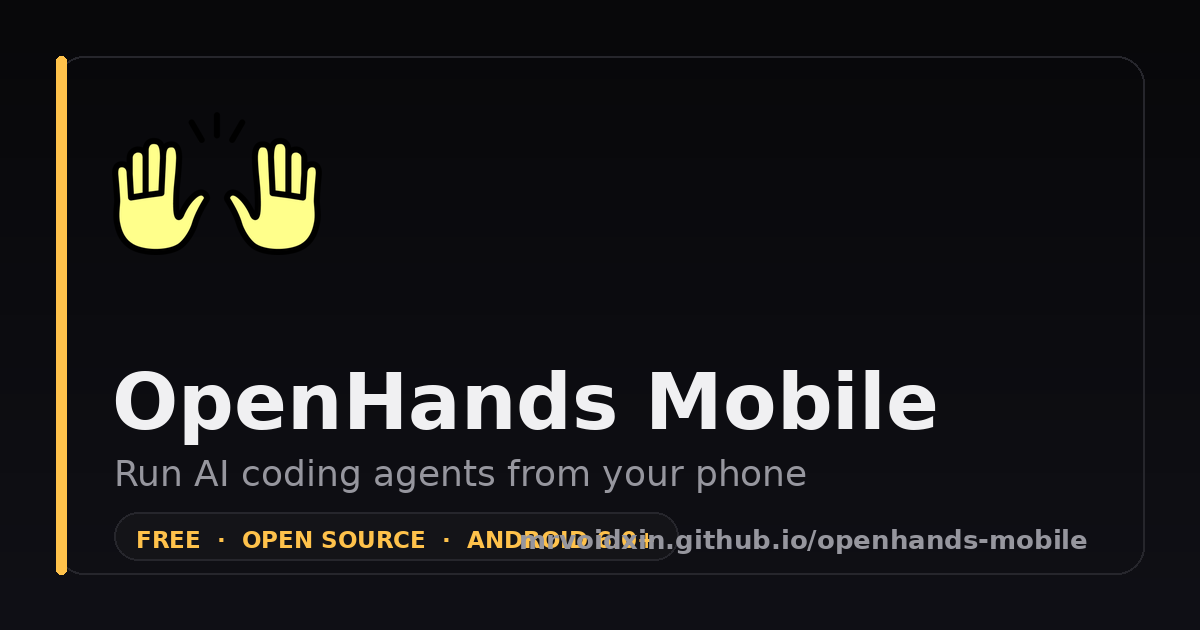
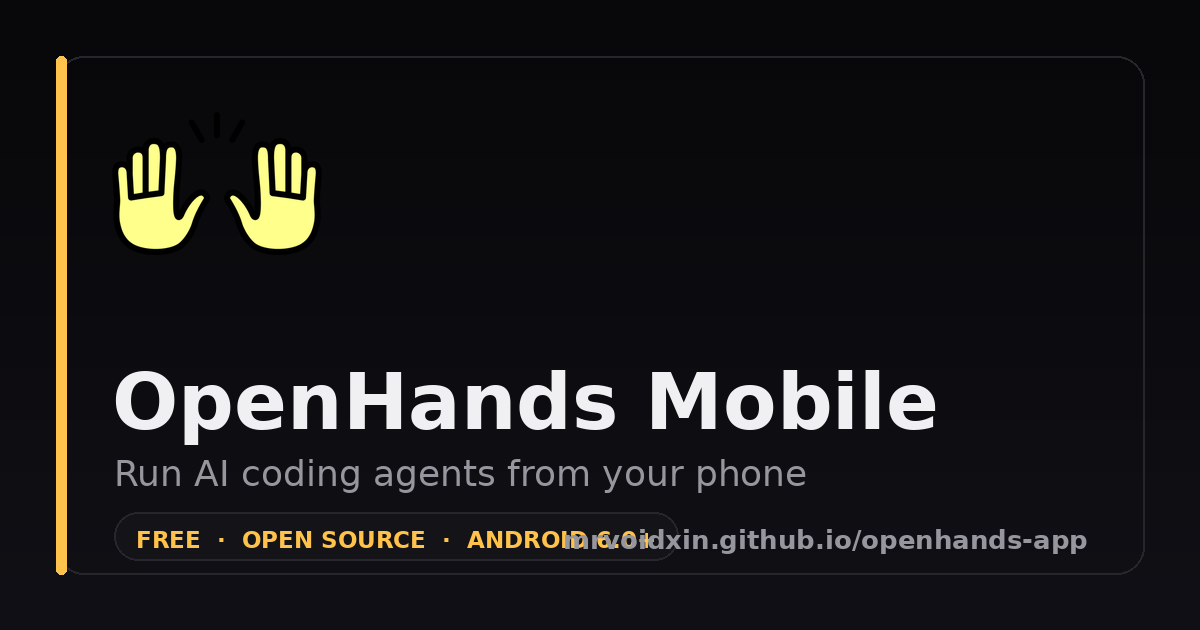
Rename the project to openhands-app
The repo is now mrvoidxin/openhands-app, so the Pages URL and every
download/source link move with it. Updated the landing page meta + JSON-LD
+ body links, the promo captions, README badges and clone steps, the OG
image (regenerated - the old one had the previous URL baked in), the
release-publish script and the Android build notes. GitHub keeps the old
path redirecting for a while, but the canonical URL is now:

  https://mrvoidxin.github.io/openhands-app/

Changed region(s): [[0.4317, 0.8444, 0.8942, 0.8746]]

diff --git a/docs/index.html b/docs/index.html
@@ -5,23 +5,23 @@
 <meta name="viewport" content="width=device-width, initial-scale=1, viewport-fit=cover">
 <title>OpenHands Mobile — Your AI coding agents, in your pocket.</title>
 <meta name="description" content="Run AI coding agents from your phone. OpenHands Agent Canvas as a sideloadable Android APK. Free, MIT licensed, no account, no telemetry.">
-<link rel="canonical" href="https://mrvoidxin.github.io/openhands-mobile/">
+<link rel="canonical" href="https://mrvoidxin.github.io/openhands-app/">
 <meta name="theme-color" content="#08080A">
 <meta name="color-scheme" content="dark">
 <meta name="author" content="Sameer (@mrvoidxin)">
 
 <meta property="og:type" content="website">
 <meta property="og:site_name" content="OpenHands Mobile">
-<meta property="og:url" content="https://mrvoidxin.github.io/openhands-mobile/">
+<meta property="og:url" content="https://mrvoidxin.github.io/openhands-app/">
 <meta property="og:title" content="OpenHands Mobile — Your AI coding agents, in your pocket.">
 <meta property="og:description" content="OpenHands Agent Canvas packaged as an Android app. Sideload the APK once and drive real coding agents from your phone.">
-<meta property="og:image" content="https://mrvoidxin.github.io/openhands-mobile/assets/og-image.png">
+<meta property="og:image" content="https://mrvoidxin.github.io/openhands-app/assets/og-image.png">
 <meta property="og:image:width" content="1200">
 <meta property="og:image:height" content="630">
 <meta name="twitter:card" content="summary_large_image">
 <meta name="twitter:title" content="OpenHands Mobile — Your AI coding agents, in your pocket.">
 <meta name="twitter:description" content="OpenHands Agent Canvas packaged as an Android app. Free, MIT licensed, no account, no telemetry.">
-<meta name="twitter:image" content="https://mrvoidxin.github.io/openhands-mobile/assets/og-image.png">
+<meta name="twitter:image" content="https://mrvoidxin.github.io/openhands-app/assets/og-image.png">
 
 <link rel="icon" type="image/png" href="assets/favicon.png">
 <link rel="apple-touch-icon" href="assets/favicon.png">
@@ -40,9 +40,9 @@
   "applicationCategory": "DeveloperApplication",
   "softwareVersion": "1.27.3",
   "fileSize": "6.0 MB",
-  "downloadUrl": "https://github.com/mrvoidxin/openhands-mobile/releases/latest/download/app-release.apk",
-  "installUrl": "https://github.com/mrvoidxin/openhands-mobile/releases/latest/download/app-release.apk",
-  "codeRepository": "https://github.com/mrvoidxin/openhands-mobile",
+  "downloadUrl": "https://github.com/mrvoidxin/openhands-app/releases/latest/download/app-release.apk",
+  "installUrl": "https://github.com/mrvoidxin/openhands-app/releases/latest/download/app-release.apk",
+  "codeRepository": "https://github.com/mrvoidxin/openhands-app",
   "isAccessibleForFree": true,
   "offers": { "@type": "Offer", "price": "0", "priceCurrency": "USD" },
   "license": "https://opensource.org/licenses/MIT",
@@ -832,10 +832,10 @@ code,pre{font-family:var(--font-mono)}
         <a class="nav-link" href="#verify" data-nav="verify">Verify</a>
         <a class="nav-link" href="#faq" data-nav="faq">FAQ</a>
         <a class="nav-link" href="#support" data-nav="support">Support</a>
-        <a class="nav-link" href="https://github.com/mrvoidxin/openhands-mobile" target="_blank" rel="noopener">GitHub<svg class="ext" viewBox="0 0 24 24" fill="none" stroke="currentColor" stroke-width="2" aria-hidden="true"><path d="M7 17 17 7M9 7h8v8"/></svg></a>
+        <a class="nav-link" href="https://github.com/mrvoidxin/openhands-app" target="_blank" rel="noopener">GitHub<svg class="ext" viewBox="0 0 24 24" fill="none" stroke="currentColor" stroke-width="2" aria-hidden="true"><path d="M7 17 17 7M9 7h8v8"/></svg></a>
       </nav>
 
-      <a class="btn btn-primary btn-sm nav-cta" href="https://github.com/mrvoidxin/openhands-mobile/releases/latest/download/app-release.apk">
+      <a class="btn btn-primary btn-sm nav-cta" href="https://github.com/mrvoidxin/openhands-app/releases/latest/download/app-release.apk">
         Download
         <svg viewBox="0 0 24 24" fill="none" stroke="currentColor" stroke-width="2" stroke-linecap="round" aria-hidden="true"><path d="M12 3v12m0 0 4-4m-4 4-4-4M4 19h16"/></svg>
       </a>
@@ -854,8 +854,8 @@ code,pre{font-family:var(--font-mono)}
           <a href="#requirements">Requirements</a>
           <a href="#faq">FAQ</a>
           <a href="#support">Support</a>
-          <a href="https://github.com/mrvoidxin/openhands-mobile" target="_blank" rel="noopener">GitHub</a>
-          <a class="btn btn-primary" href="https://github.com/mrvoidxin/openhands-mobile/releases/latest/download/app-release.apk">
+          <a href="https://github.com/mrvoidxin/openhands-app" target="_blank" rel="noopener">GitHub</a>
+          <a class="btn btn-primary" href="https://github.com/mrvoidxin/openhands-app/releases/latest/download/app-release.apk">
             Download APK · 6.0 MB
             <svg viewBox="0 0 24 24" fill="none" stroke="currentColor" stroke-width="2" stroke-linecap="round" aria-hidden="true"><path d="M12 3v12m0 0 4-4m-4 4-4-4M4 19h16"/></svg>
           </a>
@@ -883,18 +883,18 @@ code,pre{font-family:var(--font-mono)}
         <p class="hero-sub" id="h-sub">OpenHands Agent Canvas, packaged as a native Android app. Sideload the APK once and drive real coding agents from your phone. No Play Store, no account, no telemetry.</p>
 
         <div class="hero-cta" id="h-cta">
-          <a class="btn btn-primary" href="https://github.com/mrvoidxin/openhands-mobile/releases/latest/download/app-release.apk">
+          <a class="btn btn-primary" href="https://github.com/mrvoidxin/openhands-app/releases/latest/download/app-release.apk">
             Download APK · 6.0 MB
             <svg viewBox="0 0 24 24" fill="none" stroke="currentColor" stroke-width="2" stroke-linecap="round" aria-hidden="true"><path d="M12 3v12m0 0 4-4m-4 4-4-4M4 19h16"/></svg>
           </a>
-          <a class="btn btn-ghost" href="https://github.com/mrvoidxin/openhands-mobile" target="_blank" rel="noopener">
+          <a class="btn btn-ghost" href="https://github.com/mrvoidxin/openhands-app" target="_blank" rel="noopener">
             <svg viewBox="0 0 24 24" fill="currentColor" aria-hidden="true"><path d="M12 2C6.48 2 2 6.58 2 12.23c0 4.52 2.87 8.35 6.84 9.71.5.09.68-.22.68-.49v-1.7c-2.78.62-3.37-1.37-3.37-1.37-.45-1.18-1.11-1.49-1.11-1.49-.91-.64.07-.63.07-.63 1 .07 1.53 1.05 1.53 1.05.9 1.57 2.35 1.12 2.92.86.09-.67.35-1.12.63-1.38-2.22-.26-4.56-1.14-4.56-5.06 0-1.12.39-2.03 1.03-2.75-.11-.26-.45-1.3.1-2.7 0 0 .84-.28 2.75 1.05a9.4 9.4 0 0 1 5 0c1.91-1.33 2.75-1.05 2.75-1.05.55 1.4.2 2.44.1 2.7.64.72 1.03 1.63 1.03 2.75 0 3.93-2.34 4.8-4.57 5.05.36.32.68.94.68 1.9v2.82c0 .27.18.59.69.49A10.24 10.24 0 0 0 22 12.23C22 6.58 17.52 2 12 2Z"/></svg>
             View on GitHub
           </a>
         </div>
 
         <div class="obtainium" id="h-obt">
-          <a href="https://apps.obtainium.imranr.dev/redirect?r=obtainium%3A%2F%2Fapp%2F%7B%22id%22%3A%22dev.openhands.agentcanvas%22%2C%22url%22%3A%22https%3A%2F%2Fgithub.com%2Fmrvoidxin%2Fopenhands-mobile%22%2C%22author%22%3A%22mrvoidxin%22%2C%22name%22%3A%22OpenHands%20Mobile%22%7D" target="_blank" rel="noopener">
+          <a href="https://apps.obtainium.imranr.dev/redirect?r=obtainium%3A%2F%2Fapp%2F%7B%22id%22%3A%22dev.openhands.agentcanvas%22%2C%22url%22%3A%22https%3A%2F%2Fgithub.com%2Fmrvoidxin%2Fopenhands-app%22%2C%22author%22%3A%22mrvoidxin%22%2C%22name%22%3A%22OpenHands%20Mobile%22%7D" target="_blank" rel="noopener">
             <img src="assets/badge_obtainium.png" width="196" height="44" alt="Get it on Obtainium">
           </a>
           <p>Get automatic update notifications, no Play Store needed.</p>
@@ -1367,11 +1367,11 @@ code,pre{font-family:var(--font-mono)}
           <li><svg viewBox="0 0 24 24" fill="none" stroke="currentColor" stroke-width="1.9" stroke-linecap="round" stroke-linejoin="round" aria-hidden="true"><path d="M7 18a3 3 0 1 0 0-6 3 3 0 0 0 0 6ZM17 9a3 3 0 1 0 0-6 3 3 0 0 0 0 6ZM7 15a3 3 0 1 0 0-6 3 3 0 0 0 0 6Z"/><path d="m9.5 10.5 5-3m-5 6 5 3"/></svg><span><strong>Send a pull request.</strong> Fixes and small improvements are welcome.</span></li>
         </ul>
         <div class="support-cta">
-          <a class="btn btn-primary" href="https://github.com/mrvoidxin/openhands-mobile" target="_blank" rel="noopener">
+          <a class="btn btn-primary" href="https://github.com/mrvoidxin/openhands-app" target="_blank" rel="noopener">
             <svg viewBox="0 0 24 24" fill="currentColor" aria-hidden="true"><path d="M12 2C6.48 2 2 6.58 2 12.23c0 4.52 2.87 8.35 6.84 9.71.5.09.68-.22.68-.49v-1.7c-2.78.62-3.37-1.37-3.37-1.37-.45-1.18-1.11-1.49-1.11-1.49-.91-.64.07-.63.07-.63 1 .07 1.53 1.05 1.53 1.05.9 1.57 2.35 1.12 2.92.86.09-.67.35-1.12.63-1.38-2.22-.26-4.56-1.14-4.56-5.06 0-1.12.39-2.03 1.03-2.75-.11-.26-.45-1.3.1-2.7 0 0 .84-.28 2.75 1.05a9.4 9.4 0 0 1 5 0c1.91-1.33 2.75-1.05 2.75-1.05.55 1.4.2 2.44.1 2.7.64.72 1.03 1.63 1.03 2.75 0 3.93-2.34 4.8-4.57 5.05.36.32.68.94.68 1.9v2.82c0 .27.18.59.69.49A10.24 10.24 0 0 0 22 12.23C22 6.58 17.52 2 12 2Z"/></svg>
             Star on GitHub
           </a>
-          <a class="btn btn-ghost" href="https://github.com/mrvoidxin/openhands-mobile/issues/new" target="_blank" rel="noopener">Open an issue</a>
+          <a class="btn btn-ghost" href="https://github.com/mrvoidxin/openhands-app/issues/new" target="_blank" rel="noopener">Open an issue</a>
         </div>
       </div>
     </div>
@@ -1399,23 +1399,23 @@ code,pre{font-family:var(--font-mono)}
       <div class="footer-cols">
         <div class="footer-col">
           <h4>Source</h4>
-          <a href="https://github.com/mrvoidxin/openhands-mobile" target="_blank" rel="noopener">Repository</a>
-          <a href="https://github.com/mrvoidxin/openhands-mobile/tree/main/OpenHands-main" target="_blank" rel="noopener">App source</a>
+          <a href="https://github.com/mrvoidxin/openhands-app" target="_blank" rel="noopener">Repository</a>
+          <a href="https://github.com/mrvoidxin/openhands-app/tree/main/OpenHands-main" target="_blank" rel="noopener">App source</a>
         </div>
         <div class="footer-col">
           <h4>Releases</h4>
-          <a href="https://github.com/mrvoidxin/openhands-mobile/releases" target="_blank" rel="noopener">Latest release</a>
-          <a href="https://github.com/mrvoidxin/openhands-mobile/releases/latest/download/app-release.apk">Download APK</a>
+          <a href="https://github.com/mrvoidxin/openhands-app/releases" target="_blank" rel="noopener">Latest release</a>
+          <a href="https://github.com/mrvoidxin/openhands-app/releases/latest/download/app-release.apk">Download APK</a>
         </div>
         <div class="footer-col">
           <h4>Issues</h4>
-          <a href="https://github.com/mrvoidxin/openhands-mobile/issues" target="_blank" rel="noopener">Open issues</a>
-          <a href="https://github.com/mrvoidxin/openhands-mobile/issues/new" target="_blank" rel="noopener">Report a bug</a>
+          <a href="https://github.com/mrvoidxin/openhands-app/issues" target="_blank" rel="noopener">Open issues</a>
+          <a href="https://github.com/mrvoidxin/openhands-app/issues/new" target="_blank" rel="noopener">Report a bug</a>
         </div>
         <div class="footer-col">
           <h4>Readme</h4>
-          <a href="https://github.com/mrvoidxin/openhands-mobile/blob/main/README.md" target="_blank" rel="noopener">Getting started</a>
-          <a href="https://github.com/mrvoidxin/openhands-mobile/blob/main/LICENSE" target="_blank" rel="noopener">MIT license</a>
+          <a href="https://github.com/mrvoidxin/openhands-app/blob/main/README.md" target="_blank" rel="noopener">Getting started</a>
+          <a href="https://github.com/mrvoidxin/openhands-app/blob/main/LICENSE" target="_blank" rel="noopener">MIT license</a>
         </div>
       </div>
     </div>
@@ -1429,7 +1429,7 @@ code,pre{font-family:var(--font-mono)}
 
 <div class="stickybar" id="stickybar">
   <div class="bar-meta"><span>v1.27.3 · 6.0 MB</span><span>Android 6.0+</span></div>
-  <a class="btn btn-primary" href="https://github.com/mrvoidxin/openhands-mobile/releases/latest/download/app-release.apk">
+  <a class="btn btn-primary" href="https://github.com/mrvoidxin/openhands-app/releases/latest/download/app-release.apk">
     Download APK
     <svg viewBox="0 0 24 24" fill="none" stroke="currentColor" stroke-width="2" stroke-linecap="round" aria-hidden="true"><path d="M12 3v12m0 0 4-4m-4 4-4-4M4 19h16"/></svg>
   </a>

diff --git a/docs/promo/index.html b/docs/promo/index.html
@@ -161,7 +161,7 @@ Just 6 MB, Android 6.0 and newer
 Only asks for internet access
 New versions install in place, no reinstall
 
-Download: https://mrvoidxin.github.io/openhands-mobile/
+Download: https://mrvoidxin.github.io/openhands-app/
 
 Note: the app is a client, so you need your own OpenHands server running. Link in the comments too.</pre>
   </div>
@@ -185,8 +185,8 @@ Why you will like it:
 - Works on Android 6.0 and newer
 
 Get it here:
-Landing page and download: https://mrvoidxin.github.io/openhands-mobile/
-Source code: https://github.com/mrvoidxin/openhands-mobile
+Landing page and download: https://mrvoidxin.github.io/openhands-app/
+Source code: https://github.com/mrvoidxin/openhands-app
 
 Good to know: the app is a client. It needs an OpenHands agent server that you run yourself, and it does not ship one. It is also a community packaging, not an official OpenHands release.
 
@@ -197,9 +197,9 @@ If it is useful to you, a star on the repo goes a long way.
 
   <div class="copyblock">
     <div class="copyhead"><span>Pinned comment</span><button data-copy="cap3">Copy</button></div>
-    <pre id="cap3">Direct download: https://github.com/mrvoidxin/openhands-mobile/releases/latest/download/app-release.apk
+    <pre id="cap3">Direct download: https://github.com/mrvoidxin/openhands-app/releases/latest/download/app-release.apk
 
-Full info and screenshots: https://mrvoidxin.github.io/openhands-mobile/
+Full info and screenshots: https://mrvoidxin.github.io/openhands-app/
 
 Heads up: you need your own OpenHands server running for the app to connect to. Works on Android 6.0 and newer, about 6 MB, MIT licensed.</pre>
   </div>
@@ -215,8 +215,8 @@ Heads up: you need your own OpenHands server running for the app to connect to. 
   </div>
 
   <p class="foot">
-    Live page: <a href="../">mrvoidxin.github.io/openhands-mobile</a> ·
-    <a href="https://github.com/mrvoidxin/openhands-mobile">Source on GitHub</a>
+    Live page: <a href="../">mrvoidxin.github.io/openhands-app</a> ·
+    <a href="https://github.com/mrvoidxin/openhands-app">Source on GitHub</a>
   </p>
 </div>
 

diff --git a/tools/make_og_image.py b/tools/make_og_image.py
@@ -5,7 +5,7 @@ from PIL import Image, ImageDraw, ImageFont
 
 ROOT = os.path.dirname(os.path.dirname(os.path.abspath(__file__)))
 SRC = os.path.join(ROOT, "OpenHands-main", "public", "android-chrome-512x512.png")
-OUT = os.path.join(ROOT, "docs", "assets", "og-preview.png")
+OUT = os.path.join(ROOT, "docs", "assets", "og-image.png")
 
 INK = (8, 8, 10)
 INK_3 = (20, 20, 24)
@@ -54,7 +54,7 @@ def main():
     d.rounded_rectangle((114, 512, 114 + tw + 44, 560), radius=24, fill=INK_3, outline=LINE, width=2)
     d.text((136, 526), pill, font=f, fill=ACCENT)
 
-    url = "mrvoidxin.github.io/openhands-mobile"
+    url = "mrvoidxin.github.io/openhands-app"
     fu = font(26, True)
     uw = d.textlength(url, font=fu)
     d.text((W - 112 - uw, 524), url, font=fu, fill=FAINT)

diff --git a/dl/serve.py b/dl/serve.py
@@ -14,7 +14,7 @@ import socketserver
 PORT = int(os.environ.get("APK_PORT") or os.environ.get("PORT") or "12000")
 ROOT = os.path.dirname(os.path.abspath(__file__))
 
-RELEASE = "https://github.com/mrvoidxin/openhands-mobile/releases/latest/download"
+RELEASE = "https://github.com/mrvoidxin/openhands-app/releases/latest/download"
 
 INDEX = """<!doctype html>
 <html lang="en">

diff --git a/README.md b/README.md
@@ -6,11 +6,11 @@
 
 Run and supervise your AI coding agents from your phone.
 
-[![Download APK](https://img.shields.io/badge/Download-APK-6c5ce7?style=for-the-badge&logo=android&logoColor=white)](https://github.com/mrvoidxin/openhands-mobile/releases/latest/download/app-release.apk)
-[![Website](https://img.shields.io/badge/Website-openhands--mobile-FF6A3D?style=for-the-badge&logo=githubpages&logoColor=white)](https://mrvoidxin.github.io/openhands-mobile/)
-[![Version](https://img.shields.io/badge/version-1.27.3-blue?style=for-the-badge)](https://github.com/mrvoidxin/openhands-mobile/releases/tag/v1.27.3)
-[![Build](https://github.com/mrvoidxin/openhands-mobile/actions/workflows/build-android-apk.yml/badge.svg)](https://github.com/mrvoidxin/openhands-mobile/actions/workflows/build-android-apk.yml)
-[![License: MIT](https://img.shields.io/badge/license-MIT-green?style=for-the-badge)](https://github.com/mrvoidxin/openhands-mobile/blob/main/LICENSE)
+[![Download APK](https://img.shields.io/badge/Download-APK-6c5ce7?style=for-the-badge&logo=android&logoColor=white)](https://github.com/mrvoidxin/openhands-app/releases/latest/download/app-release.apk)
+[![Website](https://img.shields.io/badge/Website-openhands--app-FF6A3D?style=for-the-badge&logo=githubpages&logoColor=white)](https://mrvoidxin.github.io/openhands-app/)
+[![Version](https://img.shields.io/badge/version-1.27.3-blue?style=for-the-badge)](https://github.com/mrvoidxin/openhands-app/releases/tag/v1.27.3)
+[![Build](https://github.com/mrvoidxin/openhands-app/actions/workflows/build-android-apk.yml/badge.svg)](https://github.com/mrvoidxin/openhands-app/actions/workflows/build-android-apk.yml)
+[![License: MIT](https://img.shields.io/badge/license-MIT-green?style=for-the-badge)](https://github.com/mrvoidxin/openhands-app/blob/main/LICENSE)
 [![Support via UPI](https://img.shields.io/badge/Support-UPI-ff9f1c?style=for-the-badge&logo=buymeacoffee&logoColor=white)](#support-this-project)
 
 </div>
@@ -23,9 +23,9 @@ Run and supervise your AI coding agents from your phone.
 
 | Build | Size | Link |
 | --- | --- | --- |
-| **Release (signed)** | 6.0 MB | **[app-release.apk](https://github.com/mrvoidxin/openhands-mobile/releases/latest/download/app-release.apk)** |
+| **Release (signed)** | 6.0 MB | **[app-release.apk](https://github.com/mrvoidxin/openhands-app/releases/latest/download/app-release.apk)** |
 
-All builds: [Releases page](https://github.com/mrvoidxin/openhands-mobile/releases)
+All builds: [Releases page](https://github.com/mrvoidxin/openhands-app/releases)
 
 > **Upgrading from a build older than v1.27.2?** That version was signed with a
 > different key, so Android will not install this over the top. Uninstall the old
@@ -36,7 +36,7 @@ The debug build is a debuggable APK and is not published as a download. It is
 available as a CI workflow artifact to signed-in users.
 
 There is also a landing page with install steps and checksums:
-**<https://mrvoidxin.github.io/openhands-mobile/>**
+**<https://mrvoidxin.github.io/openhands-app/>**
 
 ### Get automatic updates with Obtainium
 
@@ -44,13 +44,13 @@ This app is not on the Play Store. To get notified about new versions, add it to
 [Obtainium](https://github.com/ImranR98/Obtainium) — a free, open-source app that
 installs and updates apps straight from their GitHub releases.
 
-[![Get it on Obtainium](docs/assets/badge_obtainium.png)](https://apps.obtainium.imranr.dev/redirect?r=obtainium%3A%2F%2Fapp%2F%7B%22id%22%3A%22dev.openhands.agentcanvas%22%2C%22url%22%3A%22https%3A%2F%2Fgithub.com%2Fmrvoidxin%2Fopenhands-mobile%22%2C%22author%22%3A%22mrvoidxin%22%2C%22name%22%3A%22OpenHands%20Mobile%22%7D)
+[![Get it on Obtainium](docs/assets/badge_obtainium.png)](https://apps.obtainium.imranr.dev/redirect?r=obtainium%3A%2F%2Fapp%2F%7B%22id%22%3A%22dev.openhands.agentcanvas%22%2C%22url%22%3A%22https%3A%2F%2Fgithub.com%2Fmrvoidxin%2Fopenhands-app%22%2C%22author%22%3A%22mrvoidxin%22%2C%22name%22%3A%22OpenHands%20Mobile%22%7D)
 
 Tap the badge on your phone and Obtainium fills in the details for you. Or add
 this URL by hand:
 
 ```
-https://github.com/mrvoidxin/openhands-mobile
+https://github.com/mrvoidxin/openhands-app
 ```
 
 ### Verify your download
@@ -114,7 +114,7 @@ backend, and it does not send your data anywhere by itself.
 > download a new version and install it straight over the old one — no uninstall,
 > no lost settings. See [SIGNING.md](SIGNING.md) for the certificate fingerprint.
 
-1. On your phone, open the [download link](https://github.com/mrvoidxin/openhands-mobile/releases/latest/download/app-release.apk).
+1. On your phone, open the [download link](https://github.com/mrvoidxin/openhands-app/releases/latest/download/app-release.apk).
 2. If Android asks, allow **install from unknown sources** for your browser or
    file manager. (Settings → Apps → Special access → Install unknown apps.)
 3. Open the downloaded APK and tap **Install**.
@@ -181,8 +181,8 @@ You need Node.js 24+, JDK 21, and the Android SDK.
 
 ```bash
 # 1. Get the code
-git clone https://github.com/mrvoidxin/openhands-mobile.git
-cd openhands-mobile/OpenHands-main
+git clone https://github.com/mrvoidxin/openhands-app.git
+cd openhands-app/OpenHands-main
 
 # 2. Install dependencies
 npm ci
@@ -375,7 +375,7 @@ Not everyone can or should send money. These help just as much:
 
 - **Star this repository** so more people can find it.
 - **Report a bug** or suggest an improvement in
-  [Issues](https://github.com/mrvoidxin/openhands-mobile/issues).
+  [Issues](https://github.com/mrvoidxin/openhands-app/issues).
 - **Tell someone** who would find a mobile OpenHands client useful.
 - **Contribute** a fix or a feature through a pull request.
 
@@ -404,7 +404,7 @@ Hands AI. If you want the official product, see
 
 <div align="center">
 
-**[Download the latest APK](https://github.com/mrvoidxin/openhands-mobile/releases/latest/download/app-release.apk)**
+**[Download the latest APK](https://github.com/mrvoidxin/openhands-app/releases/latest/download/app-release.apk)**
 
 If it helped you, you can [buy me a chai ☕](#support-this-project) — but only if you want to.
 

diff --git a/OpenHands-main/docs/ANDROID.md b/OpenHands-main/docs/ANDROID.md
@@ -7,10 +7,10 @@ aur kaise release hota hai.
 
 Seedha signed APK download karein:
 
-**<https://github.com/mrvoidxin/openhands-mobile/releases/latest/download/app-release.apk>**
+**<https://github.com/mrvoidxin/openhands-app/releases/latest/download/app-release.apk>**
 
 Install steps aur checksums ke liye repo ka [README](../../README.md) ya
-landing page <https://mrvoidxin.github.io/openhands-mobile/> dekhein.
+landing page <https://mrvoidxin.github.io/openhands-app/> dekhein.
 
 > Note: Ye ek **signed release APK** hai, debug build nahi. App khud kuch
 > download nahi karta — ye sirf ek client hai jo aapke apne OpenHands agent
